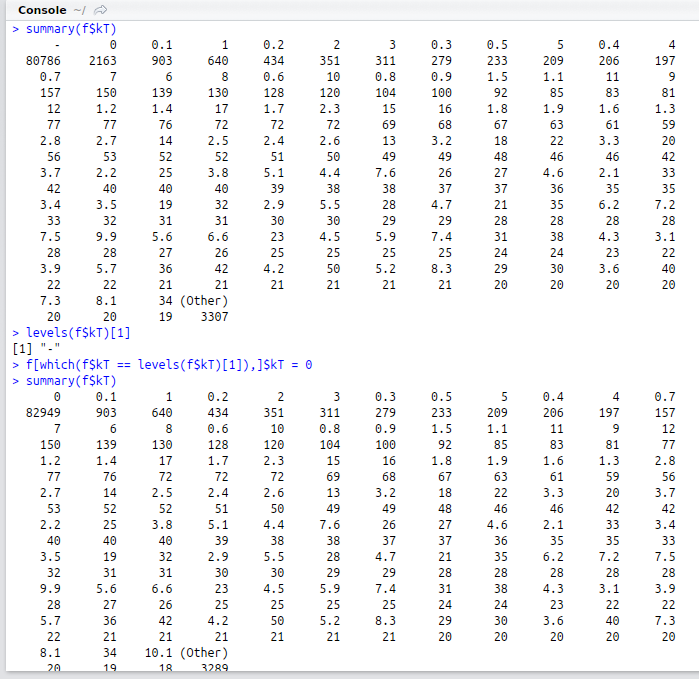
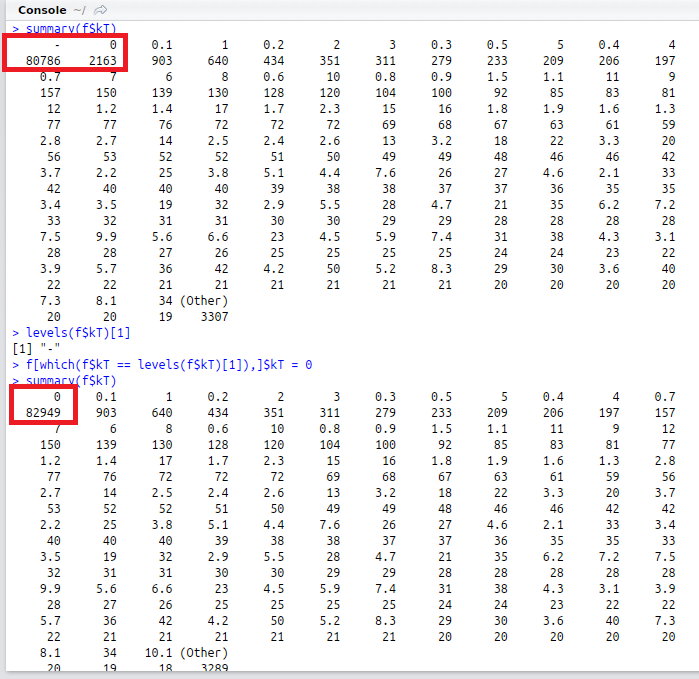
audit assiste done

Changed region(s): [[0.0, 0.0309, 0.1803, 0.1237], [0.0, 0.5567, 0.1202, 0.6495]]

diff --git a/chapters/chapitre3.tex b/chapters/chapitre3.tex
@@ -79,12 +79,12 @@ Ce chapitre présente le processus d'acquisition des données et leur préparati
 	\item "Region..IFA." : Région à laquelle appartient le pays de destination selon le découpage IFA.
 	\item "Region..OCP." : Région à laquelle appartient le pays de destination selon le découpage OCP.
 	\item "Exporting.countries" : Pays d'origine de l'enregistrement-vente.
-	\item "Product" : Produit de l'enregistrement-vente. (MAP, DAP,PA\nomenclature{\textbf{PA : }}{Acide phosphorique},TSP ,ROCK\footnote{Minerai du phosphate brut en roche.})
+	\item "Product" : Produit de l'enregistrement-vente. (MAP, DAP,PA\nomenclature{\textbf{PA : }}{Acide phosphorique},TSP ,Rock\footnote{Minerai du phosphate brut en roche.})
 	\item "Year" : Année de l'enregistrement-vente.
 	\item "Quarter" Trimestre de l'enregistrement-vente.
 	\item "Code" : Code de Synthèse des champs précédents.
-	\item "kT" :  Poids de l'enregistrement-vente en kT\footnote{Kilotonne = $10^6$ kilogramme.} de produit.           
-	\item "P2O5.Product" : Poids équivalent du produit en P2O5\footnote{Pentoxyde de phosphore, la molécule de base des engrais phosphatés.}
+	\item "kT" :  Poids de l'enregistrement-vente en kT\footnote{Kilotonne = $10^6$ kilogramme.}.           
+	\item "P2O5.Product" : Drapeau indiquant si le poids indiqué à la colonne \textit{kT}est net en P2O5\footnote{Pentoxyde de phosphore, la molécule de base des engrais phosphatés} ou en poids brut.
 	\item "Cumulated.Not.cumulated" : Drapeau indiquant la norme trimestrielle de l'enregistrement-vente.
 	\item "AGG.DET.ANN" : Drapeau indiquant la granularité de l'enregistrement-vente
 	\end{itemize}
@@ -131,7 +131,7 @@ Le constat montre que 80 \% de la durée d'un projet Data Mining est consacrée 
 							\label{fig:projplot}
 						\end{wrapfigure}
 	Pour trouver ces lignes verticales et ces colonnes, nous projetons les boites bleues (textuelles)sur l'axe horizontal (pour retrouver les colonnes\footnote{Nom du pays exportateur}) et sur l'axe vertical (pour retrouver les lignes\footnote{Données des enregistrements-ventes effectués par un pays importateur }). La projection consiste en l'énumération du nombre de boites bleues le long d'une ligne horizontale ou verticale. Nous concluons ainsi que les frontières entre les colonnes et les lignes sont marquées par les creux des valeurs des projections dans le graphe de projection; alors que les colonnes et les lignes en elles-même représentent les pics de la courbe. La figure \ref{fig:projplot} montre le résultat du traitement de la page de la figure \ref{fig:IFA-PDF}.\\Les graphes en haut et à gauche représentent le décompte des projections alors que les points noirs représentent les endroits où nous allons placer les frontières des lignes et des colonnes.
-	\subsubsection{Conception du flux de données du processus de consolidation}
+	\subsubsection{Conception du flux de données du processus de consolidation} \label{struct}
 	La nature des transformations à faire subir les sources de données en vue de leur consolidation, nous amène à concevoir une solution technique en 2 phases:
 	\begin{enumerate}
 	\item \textbf{Une phase de structuration des données\footnote{cf. Annexe B1 pour le code-source}:}
@@ -182,7 +182,9 @@ Le constat montre que 80 \% de la durée d'un projet Data Mining est consacrée 
 				\end{figure}
 				
 	\paragraph{}
-	Dans les figures \ref{fig:dubai} et \ref{fig:taiwan}, Nous observons deux interprétation différentes de \textbf{Dubai} en ("\textit{Dubai, UAE}","\textit{Dubai/ UAE}") et de \textbf{Taiwan} en ("\textit{Taiwan, China}","\textit{Taiwan/ China}"). Ces discrépances seraient analysées en tant que 4 pays différents alors qu'en réalité, ceux-ci ne sont que deux. Nous procédons à la correction de ces deux ambiguïtés dans les figures \ref{fig:corrDubai} et \ref{fig:corrTaiwan} respectivement.
+	Dans les figures \ref{fig:dubai} et \ref{fig:taiwan}, Nous observons deux interprétation différentes de \textbf{Dubai} en ("\textit{Dubai, UAE}","\textit{Dubai/ UAE}") et de \textbf{Taiwan} en ("\textit{Taiwan, China}","\textit{Taiwan/ China}"). Ces discrépances seraient analysées en tant que 4 pays différents alors qu'en réalité, ceux-ci ne sont que deux.\\Nous procédons à la correction de ces deux ambiguïtés dans les figures \ref{fig:corrDubai} et \ref{fig:corrTaiwan} respectivement.
+	\par
+	Un malfonctionnement similaire est à noter pour les drapeaux de la colonne \textit{P2O5.Product}\footnote{Drapeau indiquant si le poids indiqué à la colonne \textit{kT}est net en P2O5 ou en poids brut.} où des caractères "\textbf{espace}" se sont introduits en début de chaîne pour proposer ici aussi 4 niveaux qualitatifs  au lieu de 2 uniquement.\\Nous diagnostiquons ce soucis et le corrigeons dans la figure \ref{fig:corr}
 	\begin{figure}[H]
 	\begin{subfigure}{.5\textwidth}
 			\centering
@@ -208,28 +210,29 @@ Le constat montre que 80 \% de la durée d'un projet Data Mining est consacrée 
 			\caption{Correction Taiwan, China}
 			\label{fig:corrTaiwan}
 	\end{subfigure}
-	\caption{Audit: Interprétation des chaînes de caractères.}
-	\end{figure}
-	\par
-		
+		\begin{subfigure}{\linewidth}
+			\centering
+			\includegraphics[width=\linewidth]{ch3-images/10}
+			\caption{Correction des drapeaux de la colonne \textit{P2O5.Product}}
+			\label{fig:corr}
+		\end{subfigure}
+			\caption{Audit: Interprétation des chaînes de caractères.}
+			\end{figure}
+		\begin{figure}[H]
+%		\begin{subfigure}{\linewidth}
+		\centering
+		\includegraphics[width=0.925\linewidth]{ch3-images/8}
+		\caption{Audit: Conversion des unités de mesures.}
+		\label{fig:diffprod}
+		\end{figure}
+		La figure \ref{fig:diffprod} ci-dessous, relève un écart de 51368-42872 = 8496 enregistrements de plus possédant le drapeau \textit{Product} et pas le drapeau \textit{P2O5}. Ce chiffre nous interpelle puisque celui-ci est justement celui d'enregistrements \textbf{Product == "Rock"}. Dans la figure \ref{fig:corrprod}, nous investiguons cette fausse coïncidence en nous nous intéressons uniquement aux enregistrements  \textbf{Product $\neq$ "Rock"} où il s'avère que cet écart n'est plus. Ceci nous amène à ajuster notre code de conversion présenté dans la phase de structuration à la section \ref{struct}.
 		\begin{figure}[H]
 		\centering
-		\includegraphics[scale=0.4]{ch3-images/8}
-		\caption{}
-		\label{fig:}
-	\end{figure}
-		\begin{figure}[H]
-		\centering
-		\includegraphics[scale=0.4]{ch3-images/9}
-		\caption{}
-		\label{fig:}
-	\end{figure}
-		\begin{figure}[H]
-		\centering
-		\includegraphics[scale=0.4]{ch3-images/10}
-		\caption{}
-		\label{fig:}
-	\end{figure}
+		\includegraphics[width=\linewidth]{ch3-images/8bis}
+		\caption{Audit: Correction des unités de mesures.}
+		\label{fig:corrprod}
+		\end{figure}
+
 	\paragraph{Audit manuel d'échantillons aléatoires:}
 	\subsubsection{Déscription des données de consolidation}
 	\section{Collecte et préparation des données externes}
